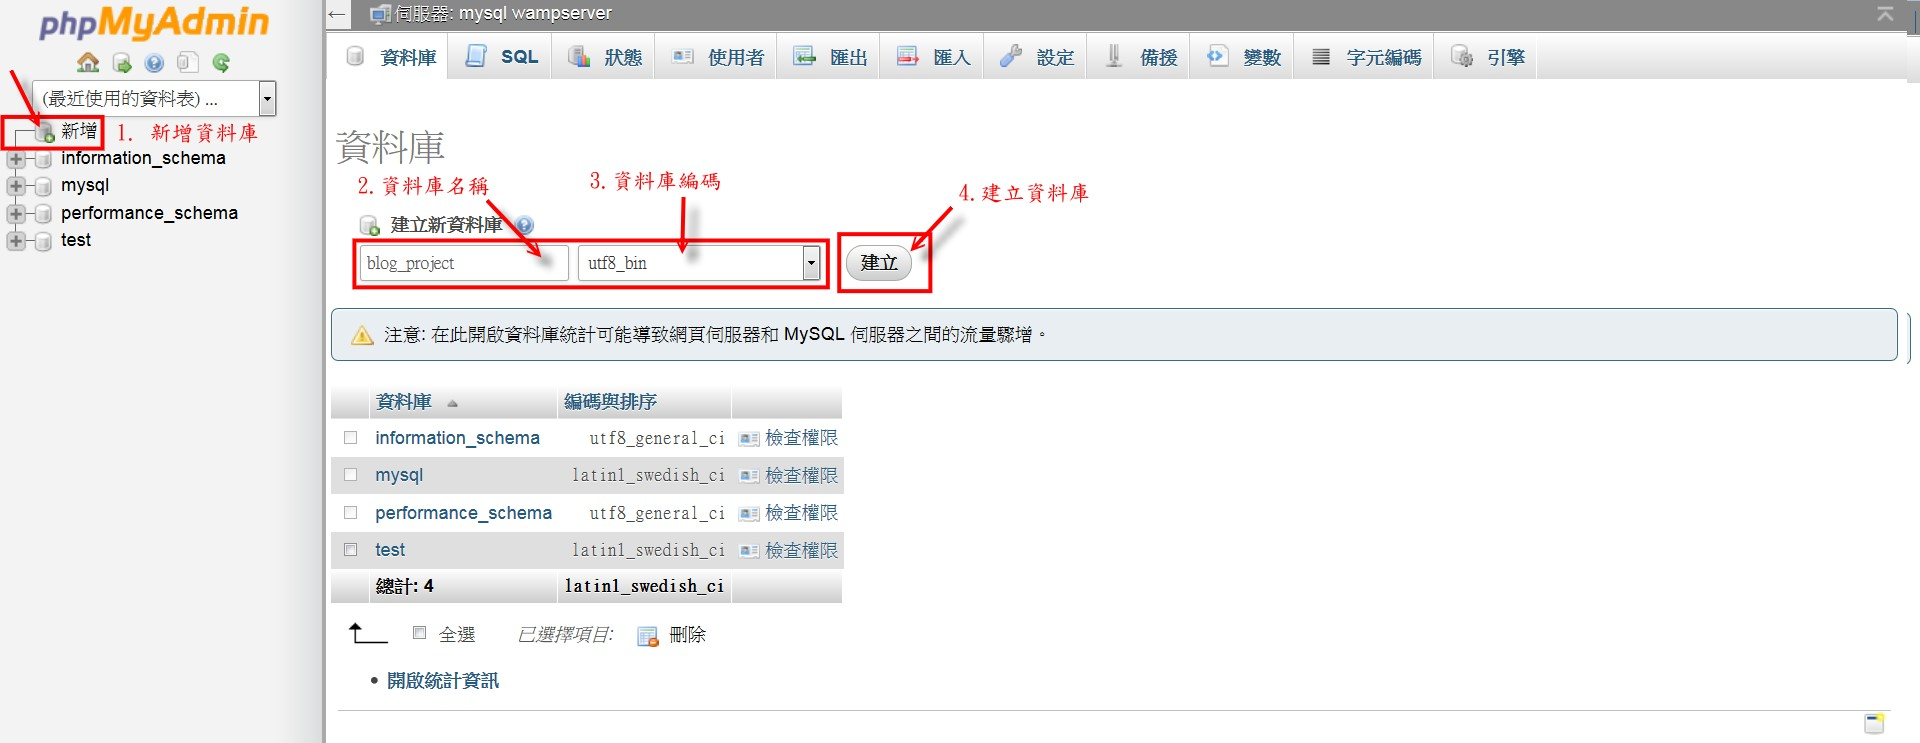
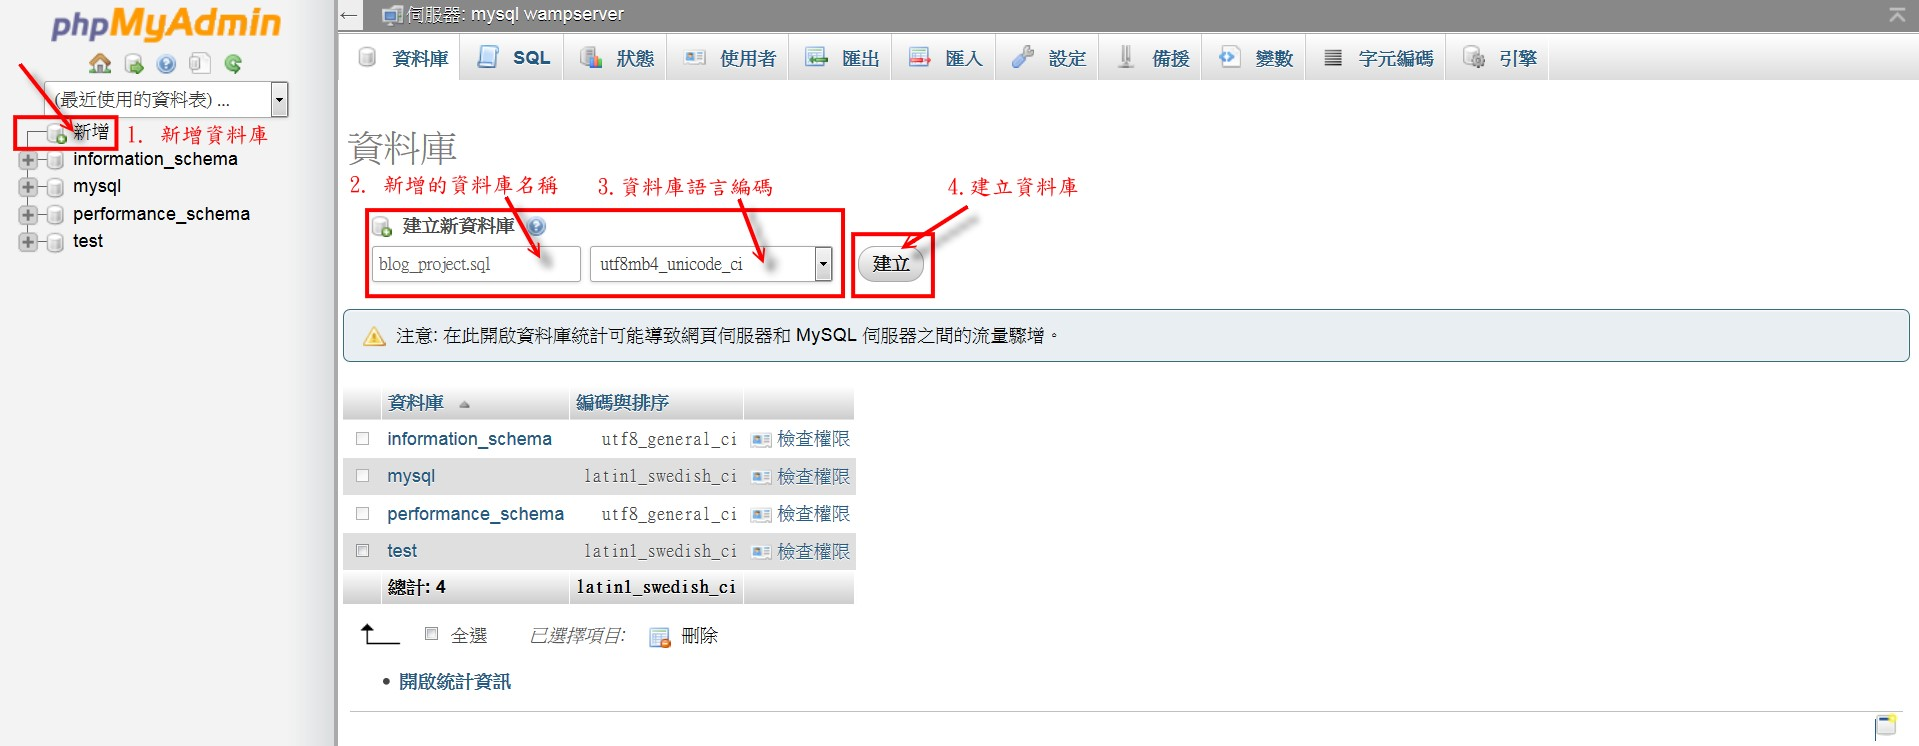
Readme.md：第二步新增註解
1. Readme.md的phpMyAdmin匯入SQL章捷中，第二項修改內容及新增註解
2.在Readme_image資料夾中覆蓋SQL_import_2.JPG

diff --git a/Readme.md b/Readme.md
@@ -177,8 +177,11 @@ WAMP的phpMyAdmin資料夾在此目錄下：C:\wamp\apps\phpMyAdmin4.1.14
 ####2. 新增資料庫
 ![image] (https://github.com/toppy368/Blog_Project/blob/master/Readme_image/SQL_import_2.JPG)
 可用此SQL指令替代：**CREATE DATABASE 資料庫名稱；**  
-請到左邊資料庫選單中選擇"新增"選項，然後到右邊紅框框起來的地方，**最左邊第一格**請輸入你想新增的**資料庫名稱**、**第二項**請選擇**資料庫編碼**，如果你要匯入的資料庫是UTF-8，請同樣選擇UTF-8的編碼，Big5或其他編碼也請選擇對應的編碼，之後請按下**建立**建立資料庫
+請到左邊資料庫選單中選擇"新增"選項，然後到右邊紅框框起來的地方，**最左邊第一格**請輸入你想新增的**資料庫名稱**、**第二項**請選擇**資料庫編碼**，考慮到使用者可能是不同國籍的人，為了語言相容性，所以本專案的資料庫設定成**utf8_unicode_ci**(**參見註解**)，**想採用utf8mb4的開發者，請將編碼資料庫設定為utf8mb4_unicode**  
 
+註解：
+1. 在還沒有Unicode概念時，每個電腦系統使用各自的編碼語言，比方說台灣的正體中文使用Big5、日本使用Shift_JIS、中國大陸簡體中文使用GB18030及GB2312、英文使用的是[ASCII] (http://zh.wikipedia.org/zh-tw/ASCII)，不同的語言，2進位代碼不同，如果編碼設錯，瀏覽器讀不出來將造成 [亂碼] (http://zh.wikipedia.org/zh-tw/%E4%BA%82%E7%A2%BC)，後來為了將這些語言統一才推出 [Unicode編碼] (http://zh.wikipedia.org/zh-tw/Unicode) ，可在同頁面上顯示不同語言的文字
+2. phpMyAdmin在5.5以後開始支援utf8mb4編碼，而 [Wordpress也採用此編碼] (https://tw.wordpress.org/2015/04/29/wordpress-4-2/) ，不過我目前還是以UTF-8為主(想採用utf8mb4的開發者，請將編碼資料庫設定為utf8mb4_unicode)
 
 ###透過phpMyAdmin匯出SQL檔(備份成 *.sql檔)
 舊文網址：[WordPress 多種方式的網誌備份教學<<toppy368的研究書房] (http://www.toppy368.tw/archives/1437)  
